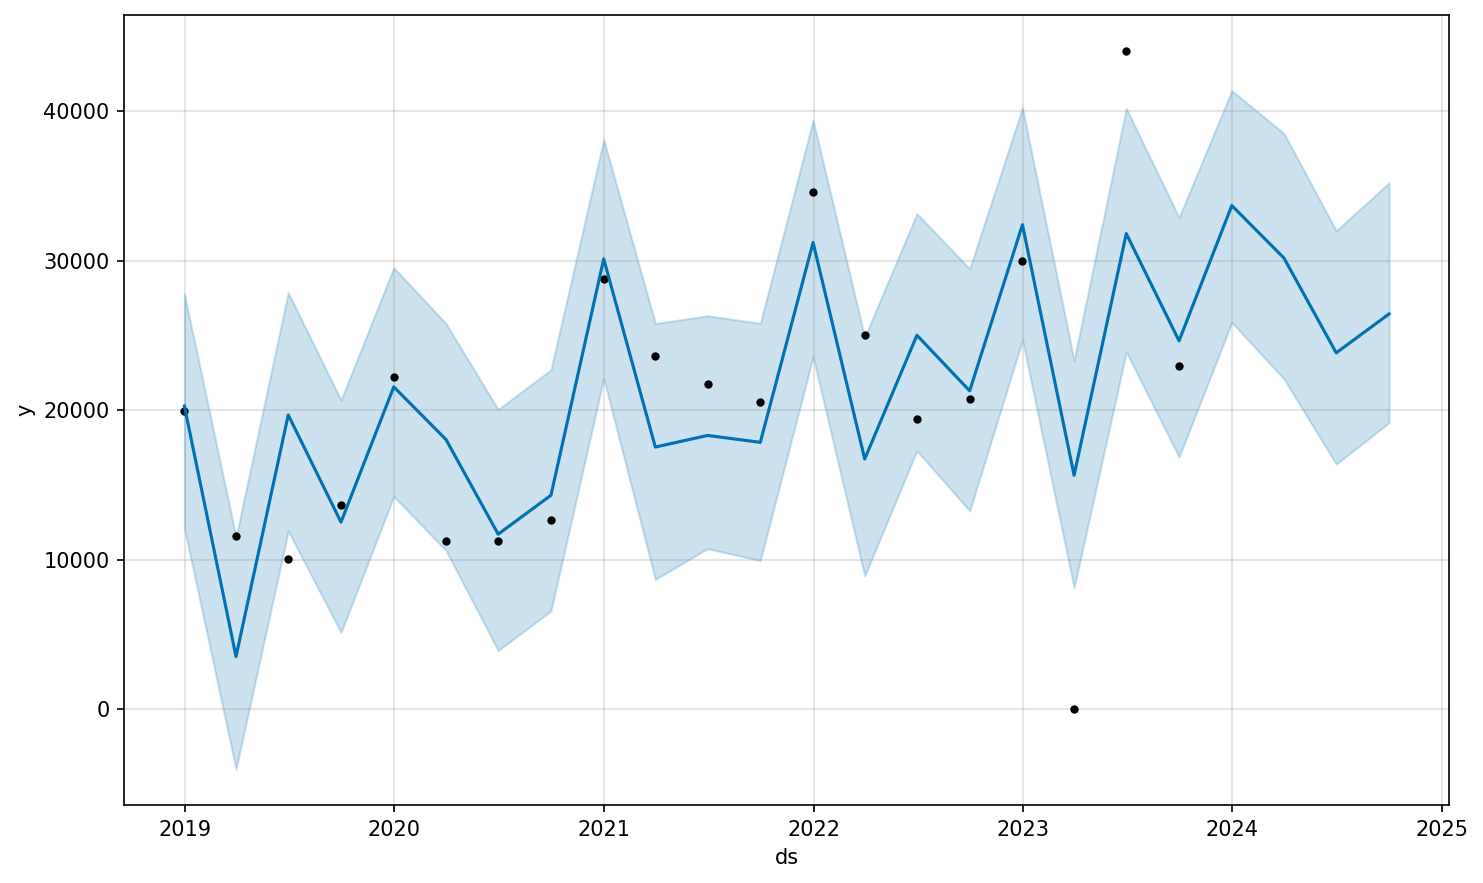
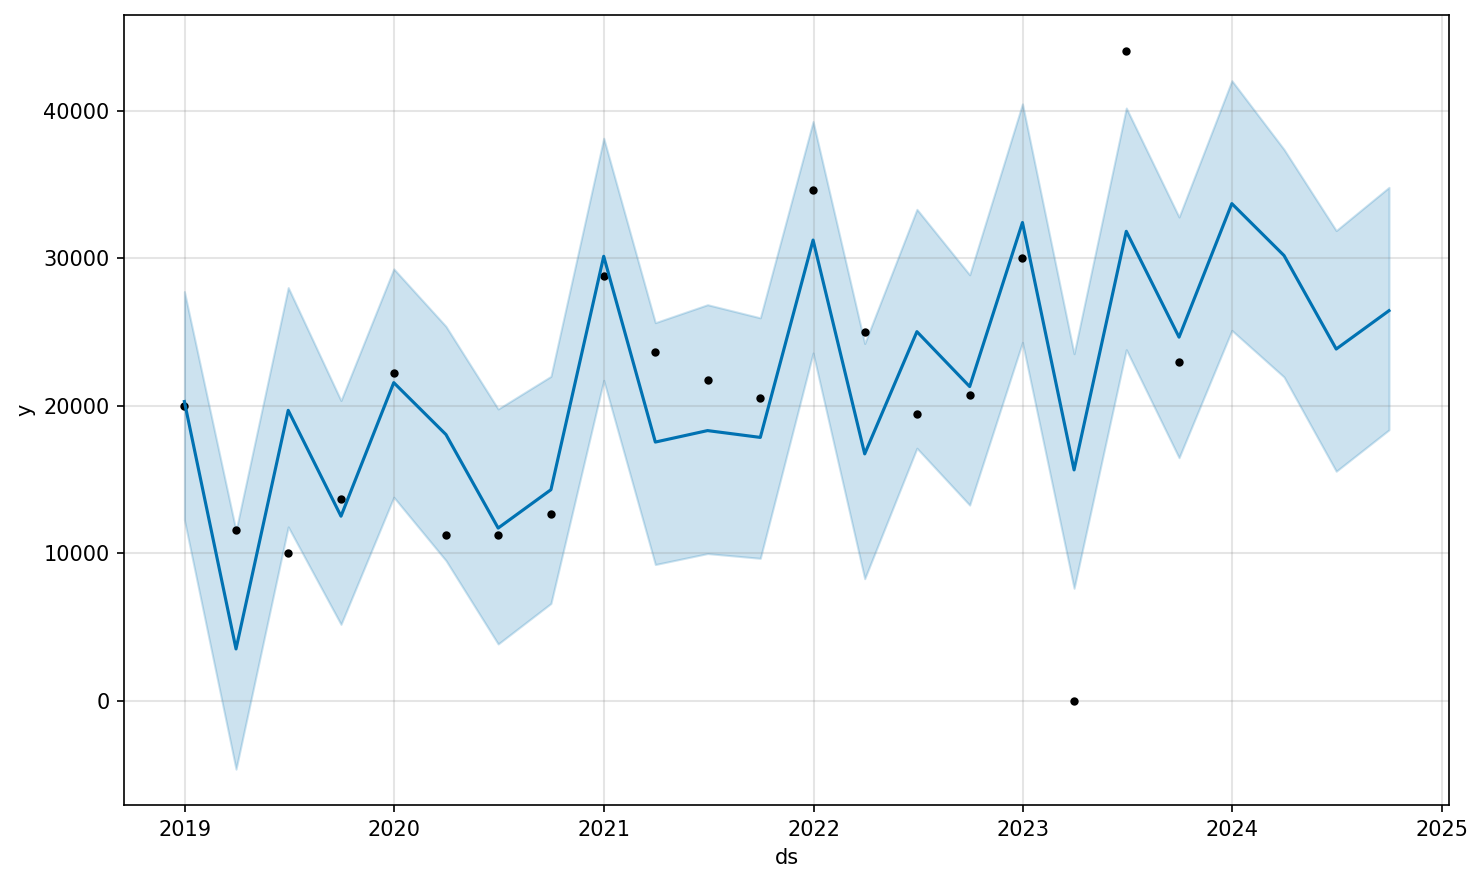
Update project: clean folder, add Prophet forecast & Power BI integration

diff --git a/main.py b/main.py
@@ -1,27 +1,47 @@
 # main.py
 import argparse, pandas as pd
 from pathlib import Path
-from prophet import Prophet   # pip install prophet
+from prophet import Prophet
+
 OUT_DIR = Path("out"); OUT_DIR.mkdir(parents=True, exist_ok=True)
 
-def forecast(csv, date_col="Date", y_col="Net_income", freq="QE", horizon=4):
+def forecast(csv, date_col="Date", y_col="Net_income", freq="QE", horizon=4,
+             mult=False, quarterly=False, logistic=False):
     df = pd.read_csv(csv)
     df[date_col] = pd.to_datetime(df[date_col])
 
-    # Dùng QE (quarter-end).
-    resample_rule = "QE"
+    # Map tần suất; 'Q' cũ => dùng 'QE' (quarter-end)
+    resample_rule = "QE" if freq.upper().startswith("Q") else freq
+
+    # Resample về quý và rename cột
     df = (df.set_index(date_col).sort_index()
             .resample(resample_rule)[[y_col]].sum()
-            .reset_index().rename(columns={date_col:"ds", y_col:"y"}))
+            .reset_index()
+            .rename(columns={date_col: "ds", y_col: "y"}))
 
-    # model
-    m = Prophet(seasonality_mode="additive", yearly_seasonality=True)
-    m.fit(df[["ds","y"]])
+    # Chọn mode seasonality & growth
+    season_mode = "multiplicative" if mult else "additive"
+    if logistic:
+        df["floor"] = 0
+        df["cap"] = df["y"].max() * 1.5
+        m = Prophet(growth="logistic", yearly_seasonality=True,
+                    seasonality_mode=season_mode)
+    else:
+        m = Prophet(yearly_seasonality=True, seasonality_mode=season_mode)
 
-    # Đồng bộ tần suất trong forecast
-    fcst = m.predict(m.make_future_dataframe(periods=horizon, freq=resample_rule))
+    if quarterly:
+        m.add_seasonality(name="quarterly", period=365.25/4, fourier_order=5)
 
+    m.fit(df[["ds", "y", "floor", "cap"]] if logistic else df[["ds", "y"]])
+
+    future = m.make_future_dataframe(periods=horizon, freq=resample_rule)
+    if logistic:
+        future["floor"] = 0
+        future["cap"]   = df["cap"].iloc[0]
+
+    fcst = m.predict(future)
     fcst[["ds","yhat","yhat_lower","yhat_upper"]].to_csv(OUT_DIR/"forecast_prophet.csv", index=False)
+
     try:
         import matplotlib.pyplot as plt
         m.plot(fcst); plt.savefig(OUT_DIR/"forecast_plot.png", dpi=150, bbox_inches="tight"); plt.close()
@@ -31,10 +51,14 @@ def forecast(csv, date_col="Date", y_col="Net_income", freq="QE", horizon=4):
 
 if __name__ == "__main__":
     ap = argparse.ArgumentParser(description="Quarterly profit forecast")
-    ap.add_argument("--csv", required=True, help="Ví dụ: data/Apple_DB.csv hoặc CSV Kaggle")
+    ap.add_argument("--csv", required=True)
     ap.add_argument("--date-col", default="Date")
     ap.add_argument("--y-col", default="Net_income")
-    ap.add_argument("--freq", default="Q")
+    ap.add_argument("--freq", default="QE")              # dùng 'QE' mặc định
     ap.add_argument("--horizon", type=int, default=4)
+    ap.add_argument("--multiplicative", action="store_true", help="seasonality_mode=multiplicative")
+    ap.add_argument("--quarterly", action="store_true", help="thêm seasonality 4 quý/năm")
+    ap.add_argument("--logistic", action="store_true", help="ràng buộc floor=0 (growth=logistic)")
     args = ap.parse_args()
-    forecast(args.csv, args.date_col, args.y_col, args.freq, args.horizon)
+    forecast(args.csv, args.date_col, args.y_col, args.freq, args.horizon,
+             mult=args.multiplicative, quarterly=args.quarterly, logistic=args.logistic)

diff --git a/out/viz_forecast_pretty.py b/out/viz_forecast_pretty.py
@@ -1,0 +1,37 @@
+import pandas as pd
+import matplotlib.pyplot as plt
+
+# === Đọc dữ liệu dự báo ===
+fcst = pd.read_csv("out/forecast_prophet.csv", parse_dates=["ds"])
+
+# === Tìm mốc chia giữa dữ liệu thật và phần dự báo ===
+split_date = fcst["ds"].iloc[-5]  # 4 quý cuối là forecast
+
+plt.figure(figsize=(11,6))
+
+# === Vẽ vùng tin cậy ===
+plt.fill_between(
+    fcst["ds"], fcst["yhat_lower"], fcst["yhat_upper"],
+    color="skyblue", alpha=0.3, label="Khoảng tin cậy (80%)"
+)
+
+# === Vẽ đường dự báo trung vị ===
+plt.plot(fcst["ds"], fcst["yhat"], color="darkorange", linewidth=2.2, label="Dự báo (Prophet)")
+
+# === Đường kẻ dọc ngăn cách vùng forecast ===
+plt.axvline(split_date, color="gray", linestyle="--", linewidth=1.3)
+plt.text(split_date, plt.ylim()[1]*0.9, "Bắt đầu dự báo", color="gray", fontsize=9, rotation=90, va="top", ha="right")
+
+# === Ghi chú giá trị dự báo (tính bằng nghìn USD) ===
+for x, y in zip(fcst["ds"], fcst["yhat"]):
+    plt.text(x, y + 800, f"{int(y/1000)}k", ha="center", va="bottom", fontsize=8, color="darkorange", rotation=45)
+
+# === Tiêu đề và trục ===
+plt.title("📈 Dự báo lợi nhuận theo quý của Apple (Prophet)\nĐường cam: Dự báo trung vị  |  Vùng xanh: Khoảng tin cậy 80%", fontsize=13, pad=15)
+plt.xlabel("Thời gian (Quý)")
+plt.ylabel("Lợi nhuận (triệu USD)")
+plt.grid(alpha=0.25)
+plt.legend()
+plt.tight_layout()
+plt.savefig("out/plots/01_du_bao_prophet.png", dpi=160)
+plt.show()
